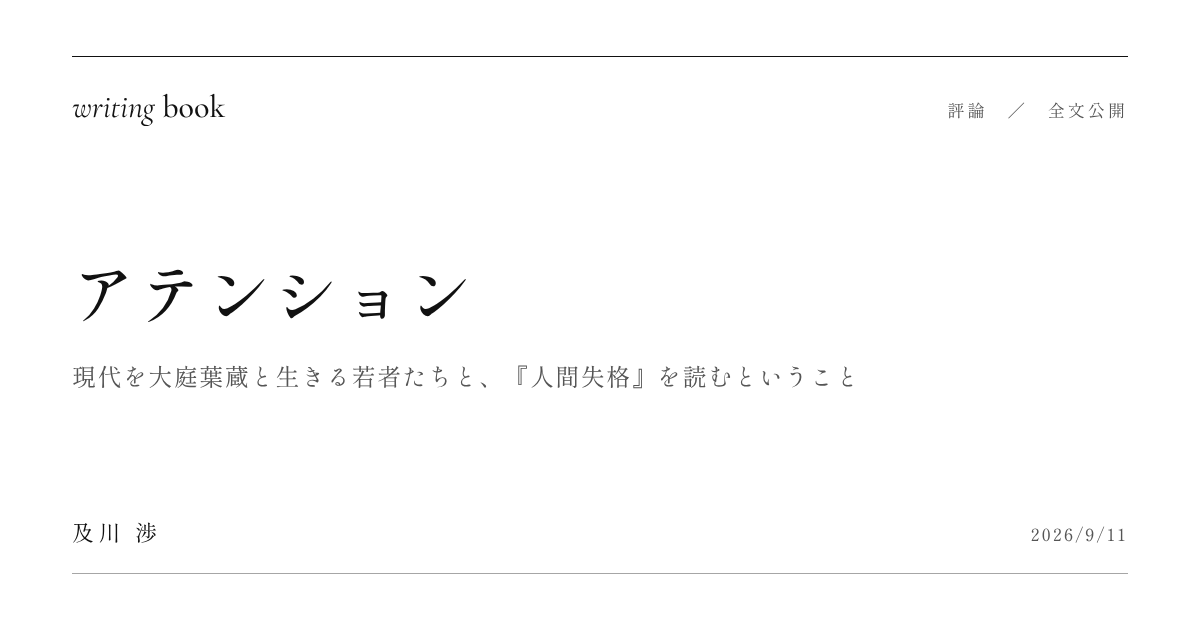
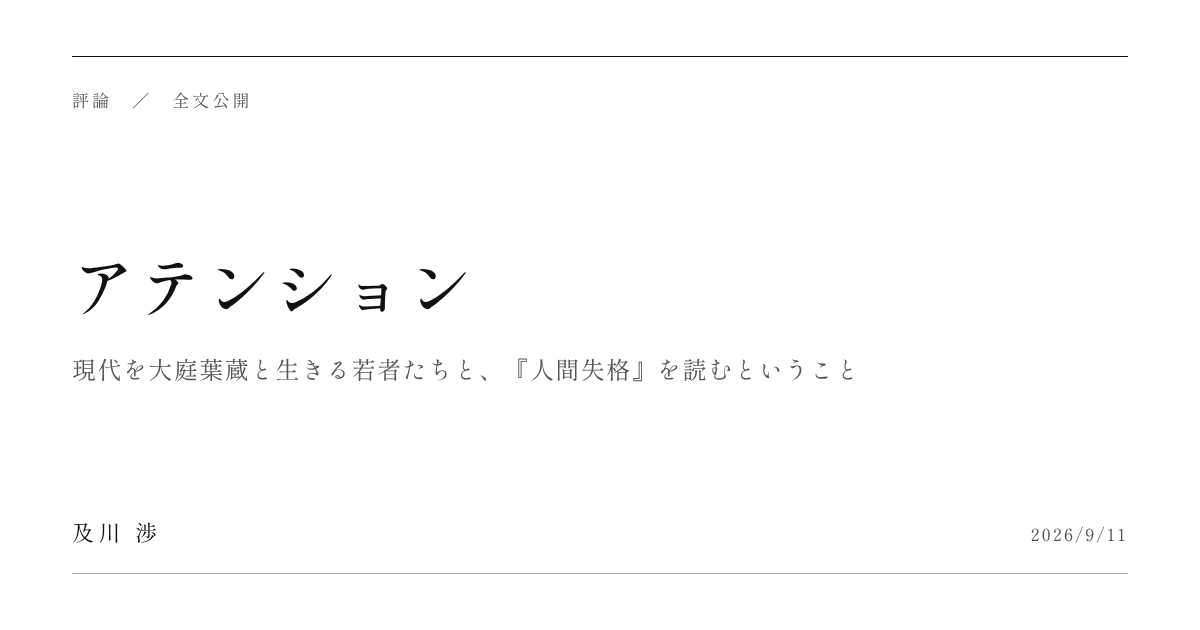
下書き：共有画像と OGP から「writing book」を外す（未公開）
共有画像の左上の「writing book」とトップの画像の欧文を外し、og:site_name を「及川 渉」にする。

Claude-Session: https://claude.ai/code/session_01JignEDnb5dJEPshDnrA5Sy

diff --git a/w/her/index.html b/w/her/index.html
@@ -8,7 +8,7 @@
 <title>「愛されている」とは誰によって決められてしまうのか。｜及川 渉</title>
 <meta name="description" content="「愛されている」と判定するのは誰の眼差しなのか。『HER』CASE.5のまみと優から考える。">
 <link rel="canonical" href="https://writingbook1210.github.io/w/her/">
-<meta property="og:site_name" content="writing book">
+<meta property="og:site_name" content="及川 渉">
 <meta property="og:type" content="article">
 <meta property="og:title" content="「愛されている」とは誰によって決められてしまうのか。｜及川 渉">
 <meta property="og:description" content="「愛されている」と判定するのは誰の眼差しなのか。『HER』CASE.5のまみと優から考える。">

diff --git a/w/kodomo/index.html b/w/kodomo/index.html
@@ -8,7 +8,7 @@
 <title>子は、親からの愛しか享受し得ないのか。｜及川 渉</title>
 <meta name="description" content="槙生の決断は「愛」と呼べるのか。保護者という立場から『違国日記』を考える。">
 <link rel="canonical" href="https://writingbook1210.github.io/w/kodomo/">
-<meta property="og:site_name" content="writing book">
+<meta property="og:site_name" content="及川 渉">
 <meta property="og:type" content="article">
 <meta property="og:title" content="子は、親からの愛しか享受し得ないのか。｜及川 渉">
 <meta property="og:description" content="槙生の決断は「愛」と呼べるのか。保護者という立場から『違国日記』を考える。">

diff --git a/w/attention/index.html b/w/attention/index.html
@@ -8,7 +8,7 @@
 <title>アテンション｜及川 渉</title>
 <meta name="description" content="『人間失格』が今なぜ読まれるのか。ニヒリズムとアテンション・エコノミーから読み解く。">
 <link rel="canonical" href="https://writingbook1210.github.io/w/attention/">
-<meta property="og:site_name" content="writing book">
+<meta property="og:site_name" content="及川 渉">
 <meta property="og:type" content="article">
 <meta property="og:title" content="アテンション｜及川 渉">
 <meta property="og:description" content="『人間失格』が今なぜ読まれるのか。ニヒリズムとアテンション・エコノミーから読み解く。">

diff --git a/w/taiji/index.html b/w/taiji/index.html
@@ -8,7 +8,7 @@
 <title>対峙｜及川 渉</title>
 <meta name="description" content="言葉が喉でつかえる高校生・静音が、喫茶店と親友との日々を通して「わたし」を見つめ直す。">
 <link rel="canonical" href="https://writingbook1210.github.io/w/taiji/">
-<meta property="og:site_name" content="writing book">
+<meta property="og:site_name" content="及川 渉">
 <meta property="og:type" content="article">
 <meta property="og:title" content="対峙｜及川 渉">
 <meta property="og:description" content="言葉が喉でつかえる高校生・静音が、喫茶店と親友との日々を通して「わたし」を見つめ直す。">

diff --git a/w/kakimono/index.html b/w/kakimono/index.html
@@ -8,7 +8,7 @@
 <title>書き物｜及川 渉</title>
 <meta name="description" content="なぜ始めたのか。そう問われると、書いている私でも分からなくなる事がある。">
 <link rel="canonical" href="https://writingbook1210.github.io/w/kakimono/">
-<meta property="og:site_name" content="writing book">
+<meta property="og:site_name" content="及川 渉">
 <meta property="og:type" content="article">
 <meta property="og:title" content="書き物｜及川 渉">
 <meta property="og:description" content="なぜ始めたのか。そう問われると、書いている私でも分からなくなる事がある。">

diff --git a/index.html b/index.html
@@ -8,7 +8,7 @@
 <!-- OGP（SNS などで共有したときに出る題名・説明・画像）ここから。
      作品ごとのページ w/<id>/ は tools/make_pages.py がこの部分を作品のものに差し替えて作ります -->
 <link rel="canonical" href="https://writingbook1210.github.io/">
-<meta property="og:site_name" content="writing book">
+<meta property="og:site_name" content="及川 渉">
 <meta property="og:type" content="website">
 <meta property="og:title" content="及川 渉">
 <meta property="og:description" content="及川 渉の小説と評論を置く場所">

diff --git a/tools/make_pages.py b/tools/make_pages.py
@@ -12,7 +12,7 @@
 
 index.html か works.js を書き換えたら、毎回このスクリプトを実行します。
 必要なもの: Node.js（npm）と Python の playwright（Chromium）。
-書体（Shippori Mincho / Cormorant Garamond）は初回に tools/.cache/ へ自動で入れます。
+書体（Shippori Mincho）は初回に tools/.cache/ へ自動で入れます。
 """
 import html
 import json
@@ -26,8 +26,8 @@ ROOT = pathlib.Path(__file__).resolve().parent.parent
 CACHE = ROOT / 'tools' / '.cache'
 FONTS = CACHE / 'fonts' / 'node_modules' / '@fontsource'
 SITE_URL = 'https://writingbook1210.github.io/'
-SITE_NAME = 'writing book'
 AUTHOR = '及川 渉'
+SITE_NAME = AUTHOR
 OGP_START = '<!-- OGP（SNS などで共有したときに出る題名・説明・画像）ここから。'
 OGP_END = '<!-- OGP ここまで -->'
 
@@ -95,18 +95,16 @@ def write_pages(works):
 
 # ---------- 共有画像（1200×630） ----------
 def ensure_fonts():
-    if (FONTS / 'shippori-mincho').exists() and (FONTS / 'cormorant-garamond').exists():
+    if (FONTS / 'shippori-mincho').exists():
         return
     d = CACHE / 'fonts'
     d.mkdir(parents=True, exist_ok=True)
     subprocess.run(['npm', 'init', '-y'], cwd=d, check=True, capture_output=True)
-    subprocess.run(['npm', 'install', '--silent', '@fontsource/shippori-mincho@5',
-                    '@fontsource/cormorant-garamond@5'], cwd=d, check=True)
+    subprocess.run(['npm', 'install', '--silent', '@fontsource/shippori-mincho@5'], cwd=d, check=True)
 
 
 def font_links():
-    files = ['shippori-mincho/400.css', 'shippori-mincho/500.css',
-             'cormorant-garamond/400.css', 'cormorant-garamond/500.css', 'cormorant-garamond/400-italic.css']
+    files = ['shippori-mincho/400.css', 'shippori-mincho/500.css']
     return ''.join(f'<link rel="stylesheet" href="{(FONTS / f).as_uri()}">' for f in files)
 
 
@@ -116,10 +114,7 @@ html,body{margin:0;background:#fff;color:#111}
 body{width:1200px;height:630px;position:relative;overflow:hidden;
   font-family:'Shippori Mincho','Noto Serif CJK JP',serif}
 .frame{position:absolute;inset:56px 72px;border-top:1.5px solid #111;border-bottom:1px solid rgba(0,0,0,.35)}
-.logo{font-family:'Cormorant Garamond',serif;white-space:nowrap}
-.logo i{font-style:italic;font-weight:400}.logo b{font-weight:500}
 """
-LOGO = '<span class="logo" lang="en"><i>writing</i> <b>book</b></span>'
 
 
 def page(inner, css=''):
@@ -129,11 +124,10 @@ def page(inner, css=''):
 
 def site_html():
     css = """
-.frame{display:flex;flex-direction:column;align-items:center;justify-content:center;gap:40px}
-.nm{font-size:96px;font-weight:500;letter-spacing:.3em;padding-left:.3em;line-height:1}
-.frame .logo{font-size:40px;line-height:1}
+.frame{display:flex;align-items:center;justify-content:center}
+.nm{font-size:104px;font-weight:500;letter-spacing:.3em;padding-left:.3em;line-height:1}
 """
-    return page(f'<div class="frame"><span class="nm">{html.escape(AUTHOR)}</span>{LOGO}</div>', css)
+    return page(f'<div class="frame"><span class="nm">{html.escape(AUTHOR)}</span></div>', css)
 
 
 def work_html(w):
@@ -142,7 +136,6 @@ def work_html(w):
     if w.get('type') == '小説':                 # 小説は題名を縦に組む
         css = """
 .top{position:absolute;left:0;top:30px;display:flex;flex-direction:column;gap:14px}
-.top .logo{font-size:32px}
 .meta{font-size:17px;letter-spacing:.18em;color:#555}
 .date{position:absolute;left:0;bottom:30px;font-size:17px;letter-spacing:.14em;color:#555}
 .vw{position:absolute;right:120px;top:40px;bottom:40px;writing-mode:vertical-rl;
@@ -150,7 +143,7 @@ def work_html(w):
 .vt{margin:0;font-size:92px;font-weight:500;letter-spacing:.32em;line-height:1.2}
 .va{margin:0;align-self:flex-end;font-size:24px;letter-spacing:.3em}
 """
-        inner = (f'<div class="frame"><div class="top">{LOGO}<span class="meta">{e(meta)}</span></div>'
+        inner = (f'<div class="frame"><div class="top"><span class="meta">{e(meta)}</span></div>'
                  f'<div class="vw"><h1 class="vt">{e(w["t"])}</h1><p class="va">{e(AUTHOR)}</p></div>'
                  f'<span class="date">{e(w.get("date", ""))}</span></div>')
         return page(inner, css)
@@ -159,7 +152,6 @@ def work_html(w):
     css = f"""
 .frame{{display:flex;flex-direction:column;justify-content:space-between;padding:30px 0 26px}}
 .top{{display:flex;justify-content:space-between;align-items:baseline}}
-.top .logo{{font-size:32px}}
 .meta{{font-size:17px;letter-spacing:.18em;color:#555}}
 .mid{{display:flex;flex-direction:column;gap:18px;max-width:980px}}
 h1{{margin:0;font-size:{size}px;font-weight:500;line-height:1.45;letter-spacing:.05em;word-break:auto-phrase;text-wrap:balance}}
@@ -167,7 +159,7 @@ h1{{margin:0;font-size:{size}px;font-weight:500;line-height:1.45;letter-spacing:
 .bot{{display:flex;justify-content:space-between;align-items:baseline;font-size:22px;letter-spacing:.2em}}
 .bot .date{{font-size:17px;letter-spacing:.14em;color:#555}}
 """
-    inner = (f'<div class="frame"><div class="top">{LOGO}<span class="meta">{e(meta)}</span></div>'
+    inner = (f'<div class="frame"><div class="top"><span class="meta">{e(meta)}</span></div>'
              f'<div class="mid"><h1>{e(w["t"])}</h1>'
              + (f'<p class="sub">{e(w["sub"])}</p>' if w.get('sub') else '') +
              f'</div><div class="bot"><span>{e(AUTHOR)}</span><span class="date">{e(w.get("date", ""))}</span></div></div>')
